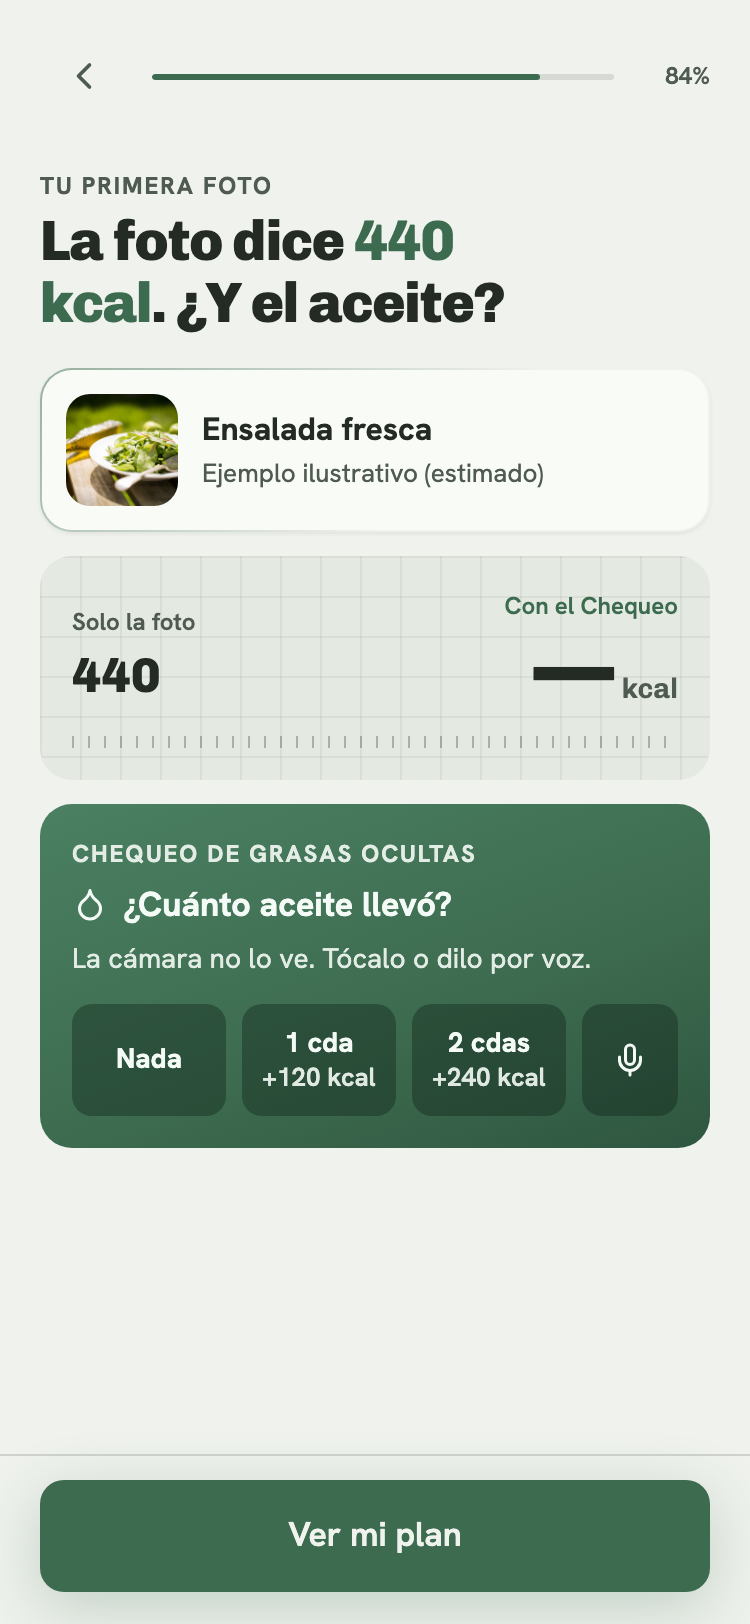
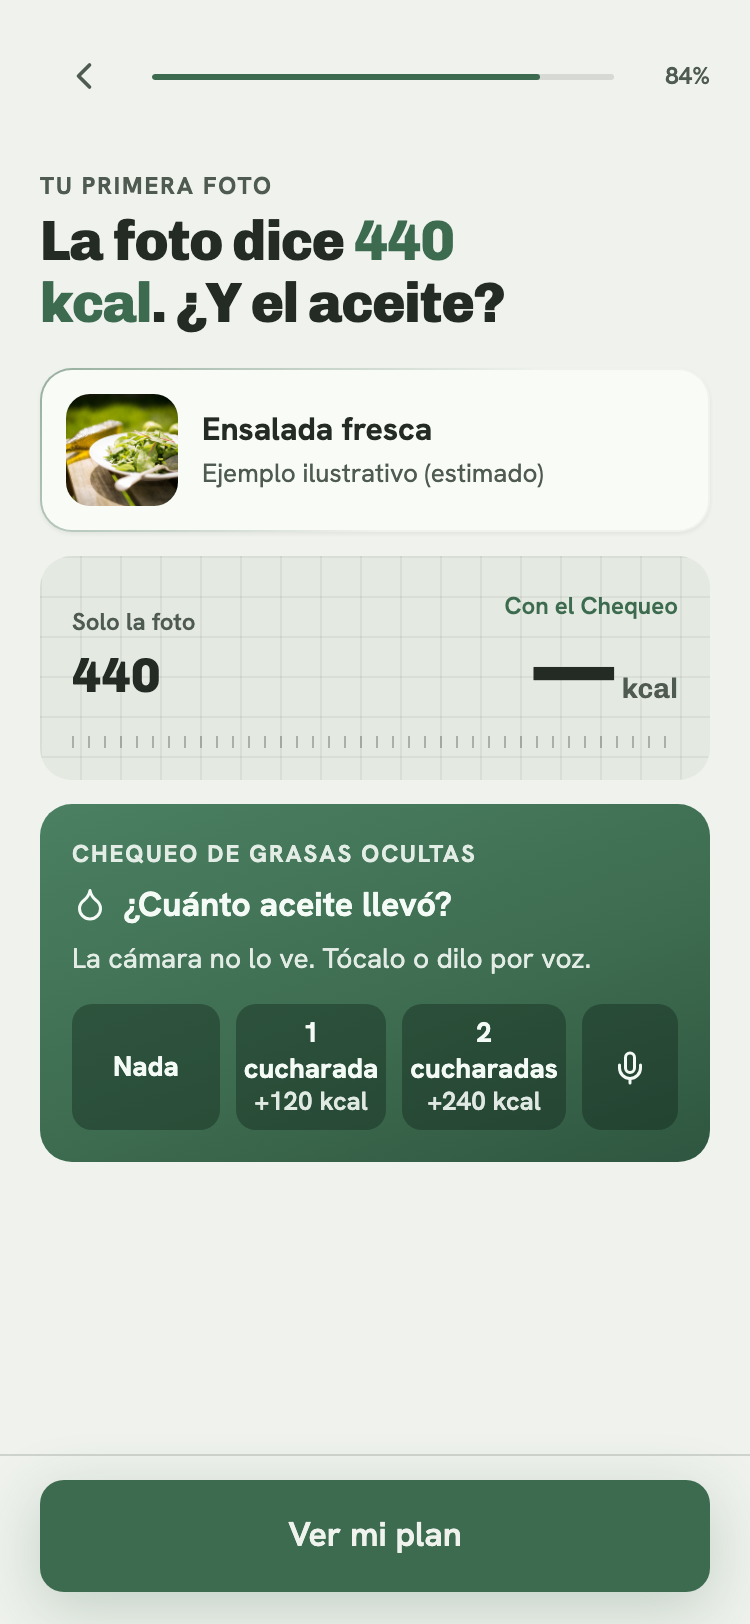
fix: pulido tras 2ª revisión de onboarding y paywall

Changed region(s): [[0.0613, 0.6158, 0.92, 0.7389], [0.92, 0.6773, 0.9507, 0.7081], [0.828, 0.6466, 0.8587, 0.6773]]

diff --git a/components/onboarding/Paywall.tsx b/components/onboarding/Paywall.tsx
@@ -33,6 +33,7 @@ export function Paywall() {
   const [plan, setPlan] = useState<Plan | null>(null);
   const [elegido, setElegido] = useState<Elegido>(params.get('plan') === 'mensual' ? 'mensual' : 'anual');
   const [fechas, setFechas] = useState({ hoy: '', aviso: '', cobro: '' });
+  const [errorNav, setErrorNav] = useState(false);
 
   useEffect(() => {
     const e = leerEstado();
@@ -63,7 +64,14 @@ export function Paywall() {
   const freno = perfil.dolor ? DOLORES[perfil.dolor] : null;
   const entrada = (n: number) => (reduce ? {} : { initial: { opacity: 0, y: 12 }, animate: { opacity: 1, y: 0 }, transition: { duration: 0.35, delay: 0.06 * n, ease: EASE } });
   const cerrar = () => { track('paywall_cerrado'); router.push('/app?plan=gratis'); };
-  const empezar = () => { track('checkout_iniciado', { plan: elegido }); router.push(`/entrar?plan=${elegido}`); };
+  const empezar = () => {
+    try {
+      track('checkout_iniciado', { plan: elegido });
+      router.push(`/entrar?plan=${elegido}`);
+    } catch {
+      setErrorNav(true);
+    }
+  };
 
   const nodos: [string, string, boolean][] = [
     [`Hoy · ${fechas.hoy}`, 'Acceso completo, sin cobro.', true],
@@ -80,7 +88,7 @@ export function Paywall() {
           {perfil.nombre ? `${perfil.nombre}, tu` : 'Tu'} plan para <span className="text-[var(--accent)]">{ETIQUETA_OBJETIVO[perfil.objetivo!]}</span> está listo
         </h1>
         <p className="mt-2 text-[15px] text-[var(--text-secondary)]">Hecho con <strong className="font-semibold text-[var(--text-primary)]">tus respuestas</strong> y tu primera foto.</p>
-        {xp > 0 && <p className="mt-3 inline-flex items-center gap-2 rounded-full bg-[color-mix(in_oklab,var(--accent-2)_12%,var(--surface))] px-3 py-1.5 text-[14px] font-bold text-[var(--accent-2)]">{xp} XP ganados · racha de 1 día<span className="font-medium text-[var(--text-secondary)]"> · se guardan con tu cuenta</span></p>}
+        {xp > 0 && <p className="mt-3 text-[14px]"><strong className="font-bold text-[#A83D06]">{xp} XP · racha de 1 día.</strong> <span className="text-[var(--text-secondary)]">Se guardan con tu cuenta.</span></p>}
       </motion.div>
 
       <motion.section {...entrada(1)} aria-label="Tu plan" className="hairline-card mt-5 rounded-[var(--radius-card)] p-4 shadow-[var(--shadow-1)]">
@@ -92,6 +100,24 @@ export function Paywall() {
           {metaFecha && perfil.meta ? <>Llegarías a <strong className="text-[var(--text-primary)]">{perfil.meta} kg</strong> hacia el {new Intl.DateTimeFormat('es-CO', { day: 'numeric', month: 'long' }).format(metaFecha)} (estimado). </> : null}
           {freno ? <>Tu freno era «{freno.freno.toLowerCase()}»: {freno.solucion.charAt(0).toLowerCase() + freno.solucion.slice(1)}</> : 'Lo afinamos con tu registro de cada día.'}
         </p>
+      </motion.section>
+
+      <motion.section {...entrada(4)} aria-label="Elige tu plan" className="mt-7 flex flex-col gap-3" role="radiogroup">
+        {([
+          ['anual', 'Anual', 'US$49.99 al año', 'US$4.17', 'Mejor precio'],
+          ['mensual', 'Mensual', 'Cancelas cuando quieras', 'US$7.99', ''],
+        ] as const).map(([id, nombre, det, precio, badge]) => (
+          <motion.button key={id} type="button" whileTap={{ scale: 0.98 }} role="radio" aria-checked={elegido === id} onClick={() => setElegido(id)} className={`relative rounded-[var(--radius-card)] border p-4 text-left ${elegido === id ? 'border-2 border-[var(--accent)] bg-[color-mix(in_oklab,var(--accent)_8%,var(--surface))] shadow-[var(--shadow-2)]' : 'border-[color-mix(in_oklab,var(--text-secondary)_28%,transparent)] bg-[var(--surface)]'}`}>
+            {badge && <span className="absolute -top-3 left-4 rounded-full bg-[var(--accent)] px-3 py-1 text-[12px] font-bold uppercase tracking-[0.06em] text-[var(--bg)]">{badge}</span>}
+            <div className="flex items-center justify-between gap-3">
+              <div className="flex items-center gap-3">
+                <span aria-hidden="true" className={`flex size-6 shrink-0 items-center justify-center rounded-full border-2 ${elegido === id ? 'border-[var(--accent)] bg-[var(--accent)] text-[var(--bg)]' : 'border-[color-mix(in_oklab,var(--text-secondary)_45%,transparent)]'}`}>{elegido === id && <Check size={14} strokeWidth={3.5} />}</span>
+                <div><p className="text-[17px] font-bold">{nombre}</p><p className="text-[14px] text-[var(--text-secondary)]">{det}</p></div>
+              </div>
+              <p className="text-right text-[26px] font-extrabold leading-none tabular-nums [font-family:var(--font-display)]">{precio}<span className="text-[14px] font-semibold text-[var(--text-secondary)]">/mes</span></p>
+            </div>
+          </motion.button>
+        ))}
       </motion.section>
 
       <motion.section {...entrada(2)} aria-label="Qué incluye" className="mt-5">
@@ -120,24 +146,6 @@ export function Paywall() {
         </ol>
       </motion.section>
 
-      <motion.section {...entrada(4)} aria-label="Elige tu plan" className="mt-6 flex flex-col gap-3" role="radiogroup">
-        {([
-          ['anual', 'Anual', 'Se cobra US$49.99 una vez al año', 'US$4.17', 'Mejor precio'],
-          ['mensual', 'Mensual', 'Cancelas cuando quieras', 'US$7.99', ''],
-        ] as const).map(([id, nombre, det, precio, badge]) => (
-          <motion.button key={id} type="button" whileTap={{ scale: 0.98 }} role="radio" aria-checked={elegido === id} onClick={() => setElegido(id)} className={`relative rounded-[var(--radius-card)] border p-4 text-left ${elegido === id ? 'border-2 border-[var(--accent)] bg-[color-mix(in_oklab,var(--accent)_8%,var(--surface))] shadow-[var(--shadow-2)]' : 'border-[color-mix(in_oklab,var(--text-secondary)_28%,transparent)] bg-[var(--surface)]'}`}>
-            {badge && <span className="absolute -top-3 left-4 rounded-full bg-[var(--accent)] px-3 py-1 text-[12px] font-bold uppercase tracking-[0.06em] text-[var(--bg)]">{badge}</span>}
-            <div className="flex items-center justify-between gap-3">
-              <div className="flex items-center gap-3">
-                <span aria-hidden="true" className={`flex size-6 shrink-0 items-center justify-center rounded-full border-2 ${elegido === id ? 'border-[var(--accent)] bg-[var(--accent)] text-[var(--bg)]' : 'border-[color-mix(in_oklab,var(--text-secondary)_45%,transparent)]'}`}>{elegido === id && <Check size={14} strokeWidth={3.5} />}</span>
-                <div><p className="text-[17px] font-bold">{nombre}</p><p className="text-[14px] text-[var(--text-secondary)]">{det}</p></div>
-              </div>
-              <p className="text-right text-[26px] font-extrabold leading-none tabular-nums [font-family:var(--font-display)]">{precio}<span className="text-[14px] font-semibold text-[var(--text-secondary)]">/mes</span></p>
-            </div>
-          </motion.button>
-        ))}
-      </motion.section>
-
       <motion.div {...entrada(5)} className="mt-5 space-y-3 text-[14px] text-[var(--text-secondary)]">
         <p className="flex items-start gap-2"><ShieldCheck size={18} className="mt-0.5 shrink-0 text-[var(--accent)]" aria-hidden="true" /><span><strong className="font-bold text-[var(--text-primary)]">Garantía de Cero Sorpresas:</strong> cancelas en 2 toques desde la app y tienes 7 días de reembolso, sin preguntas.</span></p>
         <p className="rounded-[var(--radius-card)] border border-dashed border-[color-mix(in_oklab,var(--text-secondary)_40%,transparent)] p-3 text-center">Vista previa: el pago de Hotmart y el aviso por correo se activan cuando conectemos tus cuentas.</p>
@@ -145,8 +153,10 @@ export function Paywall() {
       </motion.div>
 
       <PieFijo>
+        {errorNav && <p role="alert" className="mb-2 text-center text-[14px] font-semibold text-[#A83D06]">No pudimos continuar. Revisa tu conexión e intenta de nuevo.</p>}
         <BotonPrimario onClick={empezar}>Empezar mis 3 días gratis</BotonPrimario>
         <p className="mt-2 text-center text-[14px] text-[var(--text-secondary)]">Hoy US$0. Luego {monto}/{periodo} el {fechas.cobro}.</p>
+        <p className="mt-0.5 flex items-center justify-center gap-1.5 text-center text-[14px] font-semibold text-[var(--text-primary)]"><ShieldCheck size={15} className="text-[var(--accent)]" aria-hidden="true" /> Aviso 1 día antes · 7 días de reembolso</p>
         <button type="button" onClick={cerrar} className="mx-auto mt-1 flex min-h-11 items-center px-3 text-[14px] font-semibold text-[var(--text-secondary)] underline underline-offset-4">Ahora no, seguir con el escáner gratis</button>
       </PieFijo>
     </main>

diff --git a/components/onboarding/OnboardingFlow.tsx b/components/onboarding/OnboardingFlow.tsx
@@ -51,6 +51,9 @@ export function OnboardingFlow() {
   const [intentoNombre, setIntentoNombre] = useState(false);
   const [aceite, setAceite] = useState<0 | 1 | 2 | null>(null);
   const [porVoz, setPorVoz] = useState(false);
+  const [escuchando, setEscuchando] = useState(false);
+  const [errorVoz, setErrorVoz] = useState('');
+  const recompensaRef = useRef<HTMLDivElement | null>(null);
   const bloqueado = useRef(false);
 
   useEffect(() => {
@@ -150,8 +153,12 @@ export function OnboardingFlow() {
     // eslint-disable-next-line @typescript-eslint/no-explicit-any
     const SR = (window as any).SpeechRecognition ?? (window as any).webkitSpeechRecognition;
     if (!SR) return;
+    setErrorVoz('');
     const rec = new SR();
     rec.lang = 'es-CO';
+    rec.onstart = () => setEscuchando(true);
+    rec.onend = () => setEscuchando(false);
+    rec.onerror = () => { setEscuchando(false); setErrorVoz('No pude escucharte. Toca una opción o intenta de nuevo.'); };
     rec.onresult = (ev: { results: ArrayLike<ArrayLike<{ transcript: string }>> }) => {
       const t = ev.results[0][0].transcript.toLowerCase();
       const n = /nada|sin aceite|no llev/.test(t) ? 0 : /\b(dos|2)\b/.test(t) ? 2 : 1;
@@ -209,6 +216,9 @@ export function OnboardingFlow() {
   const dolorFrase = perfil.dolor ? DOLORES[perfil.dolor] : null;
   const metaFecha = plan && perfilCompleto(perfil) ? fechaMeta(perfil, plan) : null;
   const cuota = plan && ia ? Math.round(((ia.kcal + extra) / plan.kcal) * 100) : null;
+  useEffect(() => {
+    if (aceite !== null) setTimeout(() => recompensaRef.current?.scrollIntoView({ behavior: reduce ? 'auto' : 'smooth', block: 'nearest' }), 450);
+  }, [aceite, reduce]);
   const retroceder = ATRAS[paso] ? () => setPaso(ATRAS[paso] as Paso) : undefined;
 
   return (
@@ -405,6 +415,9 @@ export function OnboardingFlow() {
                     </div>
                   </div>
                   <div className="tick-escala mt-3" aria-hidden="true" />
+                  {aceite !== null && cuota !== null && plan && (
+                    <p className="mt-3 text-[14px]"><strong className="font-bold">Ya es el {cuota}%</strong> de tus {plan.kcal.toLocaleString('es-CO')} kcal de hoy.</p>
+                  )}
                 </div>
                 <div className="mt-3 rounded-[var(--radius-card)] p-4 text-[#F4FAF5] [background:linear-gradient(160deg,#4B8062,#3D6B4F_60%,#2F5640)]">
                   <p className="text-[12px] font-bold uppercase tracking-[0.08em] opacity-90">Chequeo de Grasas Ocultas</p>
@@ -413,23 +426,21 @@ export function OnboardingFlow() {
                   <div className="mt-3 flex gap-2" role="group" aria-label="Cantidad de aceite">
                     {([0, 1, 2] as const).map((n) => (
                       <button key={n} type="button" aria-pressed={aceite === n} onClick={() => { setAceite(n); setPorVoz(false); }} className={`min-h-14 flex-1 rounded-[10px] px-1 py-1.5 text-[14px] font-bold leading-tight ${aceite === n ? 'bg-[#F4FAF5] text-[#2F5640]' : 'bg-[#10241A]/40'}`}>
-                        {n === 0 ? 'Nada' : <>{n} cda{n > 1 ? 's' : ''}<span className="block text-[13px] font-semibold opacity-90">+{ia.pregunta_aceite.una_cucharada_kcal * n} kcal</span></>}
+                        {n === 0 ? 'Nada' : <>{n} cucharada{n > 1 ? 's' : ''}<span className="block text-[13px] font-semibold opacity-90">+{ia.pregunta_aceite.una_cucharada_kcal * n} kcal</span></>}
                       </button>
                     ))}
                     {vozDisponible && (
-                      <button type="button" onClick={dictar} aria-label="Decirlo por voz" className="flex min-h-14 w-12 items-center justify-center rounded-[10px] bg-[#10241A]/40"><Mic size={18} aria-hidden="true" /></button>
+                      <button type="button" onClick={dictar} aria-label={escuchando ? 'Escuchando…' : 'Decirlo por voz'} aria-pressed={escuchando} className={`flex min-h-14 w-12 items-center justify-center rounded-[10px] ${escuchando ? 'animate-pulse bg-[#F4FAF5] text-[#2F5640]' : 'bg-[#10241A]/40'}`}><Mic size={18} aria-hidden="true" /></button>
                     )}
                   </div>
-                  {porVoz && <p className="mt-2 text-[13px] font-semibold">Entendí tu voz y lo sumé.</p>}
+                  {escuchando && <p className="mt-2 text-[14px] font-semibold">Escuchando… di, por ejemplo, «una cucharada».</p>}
+                  {errorVoz && <p role="alert" className="mt-2 text-[14px] font-semibold text-[#FFD2B0]">{errorVoz}</p>}
+                  {porVoz && !escuchando && <p className="mt-2 text-[14px] font-semibold">Entendí tu voz y lo sumé.</p>}
                 </div>
-                {aceite !== null && cuota !== null && plan && (
-                  <div className="mt-3 rounded-[var(--radius-card)] bg-[var(--surface)] p-3 shadow-[var(--shadow-1)]">
-                    <p className="text-[14px]"><strong className="font-bold">Esta comida ya es el {cuota}%</strong> de tus {plan.kcal.toLocaleString('es-CO')} kcal de hoy.</p>
-                    <div className="mt-2 h-2 overflow-hidden rounded-full bg-[color-mix(in_oklab,var(--text-primary)_10%,transparent)]"><motion.div initial={{ width: 0 }} animate={{ width: `${Math.min(100, cuota)}%` }} transition={{ duration: 0.8, ease: EASE }} className="h-full rounded-full bg-[var(--accent)]" /></div>
-                  </div>
-                )}
                 {aceite !== null && (
-                  <Recompensa xpGanado={15} xpTotal={15} titulo="tu racha empieza hoy" detalle={extra > 0 ? `Atrapaste ${extra} kcal que la foto no veía.` : 'Registrado sin grasas extra.'} logro={extra > 0 ? 'Primer hallazgo' : undefined} />
+                  <div ref={recompensaRef} className="scroll-mb-32">
+                  <Recompensa compacto xpGanado={15} xpTotal={15} titulo="tu racha empieza hoy" detalle={extra > 0 ? `Atrapaste ${extra} kcal que la foto no veía.` : 'Registrado sin grasas extra.'} logro={extra > 0 ? 'Primer hallazgo' : undefined} />
+                  </div>
                 )}
               </div>
               <PieFijo>

diff --git a/components/onboarding/Recompensa.tsx b/components/onboarding/Recompensa.tsx
@@ -4,7 +4,7 @@ import { motion } from 'motion/react';
 import { Flame, Trophy, Zap } from 'lucide-react';
 
 /** Recompensa por completar una acción real (24/56): XP que se llena, racha y, si aplica, un logro con spring. */
-export function Recompensa({ xpGanado, xpTotal, titulo, detalle, logro }: { xpGanado: number; xpTotal: number; titulo: string; detalle: string; logro?: string }) {
+export function Recompensa({ xpGanado, xpTotal, titulo, detalle, logro, compacto = false }: { xpGanado: number; xpTotal: number; titulo: string; detalle: string; logro?: string; compacto?: boolean }) {
   return (
     <motion.div initial={{ opacity: 0, y: 10 }} animate={{ opacity: 1, y: 0 }} transition={{ duration: 0.35 }} className="mt-3 overflow-hidden rounded-[var(--radius-card)] border border-[color-mix(in_oklab,var(--accent-2)_30%,transparent)] bg-[color-mix(in_oklab,var(--accent-2)_9%,var(--surface))] p-4">
       <div className="flex items-center gap-3">
@@ -13,16 +13,16 @@ export function Recompensa({ xpGanado, xpTotal, titulo, detalle, logro }: { xpGa
         </motion.span>
         <div className="min-w-0 flex-1">
           <p className="text-[15px] font-bold leading-tight">+{xpGanado} XP · {titulo}</p>
-          <p className="text-[14px] text-[var(--text-secondary)]">{detalle}</p>
+          <p className="text-[14px] text-[#5A4A40]">{detalle}</p>
         </div>
-        <span className="inline-flex shrink-0 items-center gap-1 rounded-full bg-[var(--accent-2)] px-2.5 py-1 text-[12px] font-extrabold text-white"><Flame size={13} aria-hidden="true" /> Día 1</span>
+        <span className="inline-flex shrink-0 items-center gap-1 rounded-full bg-[#A83D06] px-2.5 py-1 text-[13px] font-extrabold text-white"><Flame size={13} aria-hidden="true" /> Día 1</span>
       </div>
-      <div className="mt-3">
+      {!compacto && <div className="mt-3">
         <div className="flex justify-between text-[12px] font-bold uppercase tracking-[0.06em] text-[var(--text-secondary)]"><span>Nivel 1 · Novato</span><span className="tabular-nums">{xpTotal} / 100 XP</span></div>
         <div className="mt-1 h-2 overflow-hidden rounded-full bg-[color-mix(in_oklab,var(--text-primary)_10%,transparent)]">
           <motion.div initial={{ width: 0 }} animate={{ width: `${Math.min(100, xpTotal)}%` }} transition={{ duration: 0.9, delay: 0.25, ease: [0.16, 1, 0.3, 1] }} className="h-full rounded-full [background:linear-gradient(90deg,#FF8A3D,#E8590C)]" />
         </div>
-      </div>
+      </div>}
       {logro && (
         <motion.div initial={{ opacity: 0, scale: 0.8 }} animate={{ opacity: 1, scale: 1 }} transition={{ type: 'spring', stiffness: 320, damping: 16, delay: 0.7 }} className="mt-3 flex items-center gap-2 rounded-[12px] bg-[var(--surface)] px-3 py-2">
           <Trophy size={18} className="text-[var(--accent-2)]" aria-hidden="true" />

diff --git a/app/layout.tsx b/app/layout.tsx
@@ -1,6 +1,7 @@
 import type { Metadata, Viewport } from "next";
 import { Chivo, Hanken_Grotesk } from "next/font/google";
 import "./globals.css";
+import { MotionProvider } from "@/components/MotionProvider";
 
 const chivo = Chivo({ variable: "--font-chivo", subsets: ["latin"], weight: ["600", "700", "800"], display: "swap" });
 const hanken = Hanken_Grotesk({ variable: "--font-hanken", subsets: ["latin"], weight: ["400", "500", "600", "700"], display: "swap" });
@@ -14,7 +15,7 @@ export const viewport: Viewport = { themeColor: "#EFF2ED", width: "device-width"
 export default function RootLayout({ children }: { children: React.ReactNode }) {
   return (
     <html lang="es-CO" className={`${chivo.variable} ${hanken.variable}`}>
-      <body>{children}</body>
+      <body><MotionProvider>{children}</MotionProvider></body>
     </html>
   );
 }

diff --git a/components/MotionProvider.tsx b/components/MotionProvider.tsx
@@ -1,0 +1,8 @@
+'use client';
+import { MotionConfig } from 'motion/react';
+import type { ReactNode } from 'react';
+
+/** Respeta prefers-reduced-motion en TODA la app (animaciones de motion). */
+export function MotionProvider({ children }: { children: ReactNode }) {
+  return <MotionConfig reducedMotion="user">{children}</MotionConfig>;
+}

diff --git a/docs/revisiones/paywall-veredicto.md b/docs/revisiones/paywall-veredicto.md
@@ -1,9 +1,9 @@
 # VEREDICTO revisor-visual — paywall
-Fecha: 2026-11-11 12:00
+Fecha: 2026-11-11 13:00
 Screenshot: docs/revisiones/paywall-375.png
-Usabilidad: 27/40
+Usabilidad: 29/40
 Craft: 14/20
-Copy (si vende): 13/20
+Copy (si vende): 15/20
 Fidelidad (si hubo referencia): N-A
 Veredicto: NO LISTA
-Top defectos: (1) Anti-patrón C5 "CTA debajo del primer viewport": "Empezar mis 3 días gratis" cae en y~804-859px en 375px (borde/debajo del primer viewport de 812px), no es fijo ni lleva precio -> CTA fijo inferior con el plan seleccionado, y comprimir el bloque (timeline + plan + planes). (2) Fechas deshonestas/inconsistentes: Paywall.tsx usa suma(2) y suma(3) con hoy=11 nov -> "Día 2 · 13 de noviembre" y "Día 3 · 14 de noviembre" saltan un día, y el aviso queda a 1 día del cobro mientras FICHA-AVATAR promete "aviso 2 días antes"; además se promete correo/aviso que aún no existe y el recuadro punteado solo rotula el pago de Hotmart -> alinear días (Hoy / Día 2 = +1 / Día 3 = +2 o fecha exacta del cobro) y rotular también el aviso como vista previa. (3) Anti-patrón C5 "legal/precio crítico a 12px": reembolso (12px), recuadro Hotmart (12px), total anual y cobro (13px), con el /mes anual en 26px dominando y el total US$49.99 en gris pequeño -> mínimo 14px con contraste AA y total anual visible bajo el /mes. (4) Oferta sin stack ni mecanismo: la pantalla nunca dice qué desbloquea lo pago frente al escáner gratis ni nombra el Chequeo de grasas ocultas; no dice cómo cancelar (objeción cobros: "cancelar en 2 toques"), ni medios de pago/moneda local (objeción 5); garantía "Reembolso de 7 días" sin nombre -> añadir 3 líneas de valor con chips SVG + "Cancela en 2 toques desde Ajustes" + nombre de garantía. (5) Craft/estados: sin conteo animado de 2.480/164, sin whileTap en las tarjetas de plan, línea del timeline sin dibujarse (C4), selección de plan solo por borde (sin radio/check), sin estado de error/offline ni skeleton al cargar (main vacío), sin enlaces de Términos/Privacidad -> añadir whileTap 0.97, count-up, línea animada 600ms, check en plan elegido y enlaces legales.
+Top defectos: (1) La objeción #1 del avatar (cobro sorpresa) queda fuera del primer viewport: la garantía "Cero Sorpresas", el aviso y "cancelas en 2 toques" están bajo el scroll y el CTA fijo solo dice "Hoy US$0. Luego US$49.99/año..." -> añadir al pie fijo "Te avisamos 1 día antes · cancelas en 2 toques · 7 días de reembolso" (sub-check garantía cerca del CTA falla). (2) Chip de XP roto: "25 XP ganados · racha de 1 día" y "· se guardan con tu cuenta" se parten en dos columnas dentro de una pastilla de 2 líneas (zona y~340-445) -> acortar a "25 XP · racha de 1 día" y mover la nota a una línea propia, sin forma de píldora. (3) Selector de plan bajo el pliegue: el CTA fijo muestra el precio anual sin que el usuario haya visto ni pueda cambiar la opción; tarjeta Anual con detalle en 3 líneas apretadas junto a "US$4.17/mes" -> subir el selector sobre los beneficios y acortar el detalle a "US$49.99 al año". (4) Incoherencia y ruido de oferta: el aviso es 1 día antes (código/DOLORES) pero FICHA-AVATAR promete 2 días; recuadro punteado "Vista previa" visible en la pantalla final, sin prueba ni demo de que el Chequeo funciona (0 prueba social, honesto pero flojo en especificidad) -> alinear a un solo plazo, retirar el recuadro al conectar Hotmart y sumar 1 línea de prueba (ej. ejemplo 440 -> 560 kcal). (5) Estados y craft: sin estado de error/offline al ir a /entrar, naranja pequeño con contraste AA dudoso en el chip, reduced-motion no cubre whileTap ni la línea del timeline fuera de la rama reduce, sin celebración ni háptica al elegir -> MotionConfig reducedMotion="user", manejo de error en empezar(), oscurecer texto naranja.

diff --git a/docs/revisiones/onboarding-veredicto.md b/docs/revisiones/onboarding-veredicto.md
@@ -1,9 +1,9 @@
 # VEREDICTO revisor-visual — onboarding
-Fecha: 2026-11-11 12:00
+Fecha: 2026-11-11 13:00
 Screenshot: docs/revisiones/onboarding-375.png
 Usabilidad: 29/40
-Craft: 12/20
-Copy (si vende): 14/20
+Craft: 15/20
+Copy (si vende): N-A
 Fidelidad (si hubo referencia): N-A
 Veredicto: NO LISTA
-Top defectos: (1) CTA principal disabled por defecto al 50% en "datos" y en "resultado" (06-resultado-antes.png: pill muerto "Elige una opción para ver tu total"); en "datos" sin hint de qué falta, y los campos nacen vacíos sin placeholder ni ejemplo -> habilitar y validar al tocar con mensaje, preseleccionar sexo/pre-llenar placeholders. (2) Foto no-comida: la API devuelve "No veo comida" con kcal 0 y OnboardingFlow.tsx lo trata como éxito ("La foto dice 0 kcal. ¿Y el aceite?") -> detectar kcal===0/plato "No veo comida" y mostrar error con "tomar otra foto". (3) Encaje óptico en la pantalla del aha: chip "1 cda · +120" parte la línea dejando "1 cda ·" huérfano, y el botón "No tengo comida a la mano: usar una de ejemplo" (04-foto) envuelve a 2 líneas con el ícono pegado al borde izquierdo -> acortar copy ("Usar una foto de ejemplo") y chips en 2 líneas explícitas ("1 cda" / "+120 kcal"); además contraste del texto 13px blanco sobre chip translúcido ~3.6:1 (<AA). (4) Mecanismo sin nombrar: la etiqueta "Con el Chequeo" no dice "Chequeo de grasas ocultas" (mecanismo bautizado en ficha) y la foto "Ensalada con pollo" no muestra pollo -> nombrar el mecanismo completo y alinear plato/foto. (5) Movimiento incompleto (3 de 7 baseline): anillo de "Construyendo tu plan" salta 6->34->58->83% sin transición (Anillo en ui.tsx sin transition), sin stagger interno por pantalla, sin línea ni celebración; además pantallas 01/03/04 con ~50% de alto vacío y sin hairline degradé ni profundidad en base plana; sin salida/volver en 'analizando' (error sin retroceso) y 'plan' (5s forzados) -> animar strokeDashoffset 700ms, stagger 60ms, añadir "Volver" en estado de error.
+Top defectos: (1) Pantalla del aha sobrecargada: titular + tarjeta de plato + panel 440/560 (el 560 se repite en titular y panel) + tarjeta Chequeo + tarjeta "23% de tus kcal" + tarjeta Recompensa (XP, racha, nivel, barra, logro) = 6 bloques y 3 sistemas de progreso; falla el gate de carga cognitiva -> quitar la barra de Nivel y fusionar el 23% dentro del panel de cifras, dejar Recompensa en una sola línea con logro. (2) La recompensa del aha nace bajo el CTA fijo (y~680-885 de 812px) y no hay scrollIntoView tras elegir cucharadas: el usuario no ve lo que ganó -> scroll suave a la Recompensa o mostrarla dentro de la tarjeta verde. (3) Contraste AA en el naranja pequeño: chip "Día 1" blanco sobre #E8590C (~3.6:1 a 12px) y "25 XP ganados" naranja sobre tinte rosado (~3:1 estimado, medir) -> oscurecer el naranja de texto a >=4.5:1 o usar texto oscuro. (4) Reduced-motion incompleto: ui.tsx (ChipOpcion stagger, whileTap, Anillo, BarraProgreso) y Recompensa.tsx (springs, barra XP) no consultan useReducedMotion y no hay MotionConfig global -> MotionConfig reducedMotion="user" en el layout. (5) Dictado por voz sin feedback (rec.start() sin estado "Escuchando", sin onerror; si falla no pasa nada) y abreviatura "cdas" -> estado escuchando/error con mensaje y "cucharadas" completo; además "Primero ves tu primer resultado. Después decides." se repite en 3 pasos y el paso de nombre deja >50% de la pantalla vacía.

diff --git a/ESTADO.md b/ESTADO.md
@@ -129,6 +129,7 @@ Registro de calorías y macros por FOTO con IA + corrección por VOZ + escáner 
 - Sesión 2: identidad visual y tour de la app. Sesión 3: página de ventas. Sesiones 4-8 según el plan maestro.
 
 ## Problemas conocidos ⚠
+- veredicto paywall y onboarding: 2ª revisión independiente (2026-11-11) NO LISTA: onboarding usab 29/40 · craft 15/20 · paywall usab 29/40 · craft 14/20 · copy 15/20 (gates 36/16/16). Evolución onboarding 29/12 → 29/15; paywall 27/14/13 → 29/14/15. Tras la 2ª se corrigió: recompensa visible (scroll) y compacta, '23%' fusionado al panel, contraste del naranja pequeño, MotionConfig global (reduced-motion), micrófono con estado escuchando/error, 'cucharadas', paywall con selector de planes arriba + garantía en el pie fijo + aviso unificado a 1 día (FICHA-AVATAR actualizada) + manejo de error. PENDIENTE: 3ª revisión (opcional), prueba social real, quitar la nota 'vista previa' al conectar Hotmart. El revisor puntúa casi todo en 3; el gate de 36/40 exige varios 4. Decisión del usuario pendiente.
 - veredicto landing: 3ª revisión independiente (2026-11-07) NO LISTA: usab 30/40 · craft 14/20 · copy 16/20 (gates 36/16/16; copy ya pasa). Evolución: 28/12/14 → 28/13/15 → 30/14/16. Tras la 3ª se corrigió: fila de confianza, título+contador en 'costo', footer, garantía bajo ambos CTAs, sticky sin duplicados, dots 44px, excepción del bloque oscuro documentada en FICHA-ARTE. PENDIENTE: 4ª revisión (opcional), correo de soporte (requiere dominio), prueba social real, screenshots reales de la app. Nota: el revisor puntúa casi todo en 3; llegar a 36/40 exige varios 4 ('raro' según su rúbrica). Decisión del usuario pendiente.
 - (resuelto 2026-11-04) plazos de garantía: el usuario eligió prueba 3 días + garantía 7 días; FICHA-MERCADO §4 completada (M>N).
 - FICHA-MODELO: existe como BORRADOR (modelo propuesto: Cal AI). Falta verificar ≥2 señales de revenue con fuente/fecha y extraer su plano (onboarding, paywall, ads) — se hace en Sesión 1 antes de la Sesión 3. Estado: pospuesto a investigación de Sesión 1.

diff --git a/FICHA-AVATAR.md b/FICHA-AVATAR.md
@@ -35,7 +35,7 @@
 
 ## Objeciones (con respuesta y destino)
 1. "¿Otra IA que inventa calorías?" → demo del chequeo: la app pregunta lo que no ve; rango, no falsa exactitud → hero + demo
-2. "¿Me van a cobrar por sorpresa?" (la queja #1 contra Fitia/MFP) → aviso 2 días antes del cobro, cancelar en 2 toques, garantía → microcopy bajo CTA + paywall + FAQ
+2. "¿Me van a cobrar por sorpresa?" (la queja #1 contra Fitia/MFP) → aviso 1 día antes del cobro, cancelar en 2 toques, garantía → microcopy bajo CTA + paywall + FAQ
 3. "¿El onboarding me va a hacer 15 minutos de preguntas para pedirme pagar?" → 3 preguntas y primer análisis gratis antes del pago → onboarding
 4. "Voy a usarla 3 días y borrarla" → racha + reporte semanal de "grasas atrapadas" → loop de retención
 5. Pago LATAM: "¿es seguro / puedo pagar en mi moneda?" → Hotmart (a definir medios por país) → microcopy + FAQ
